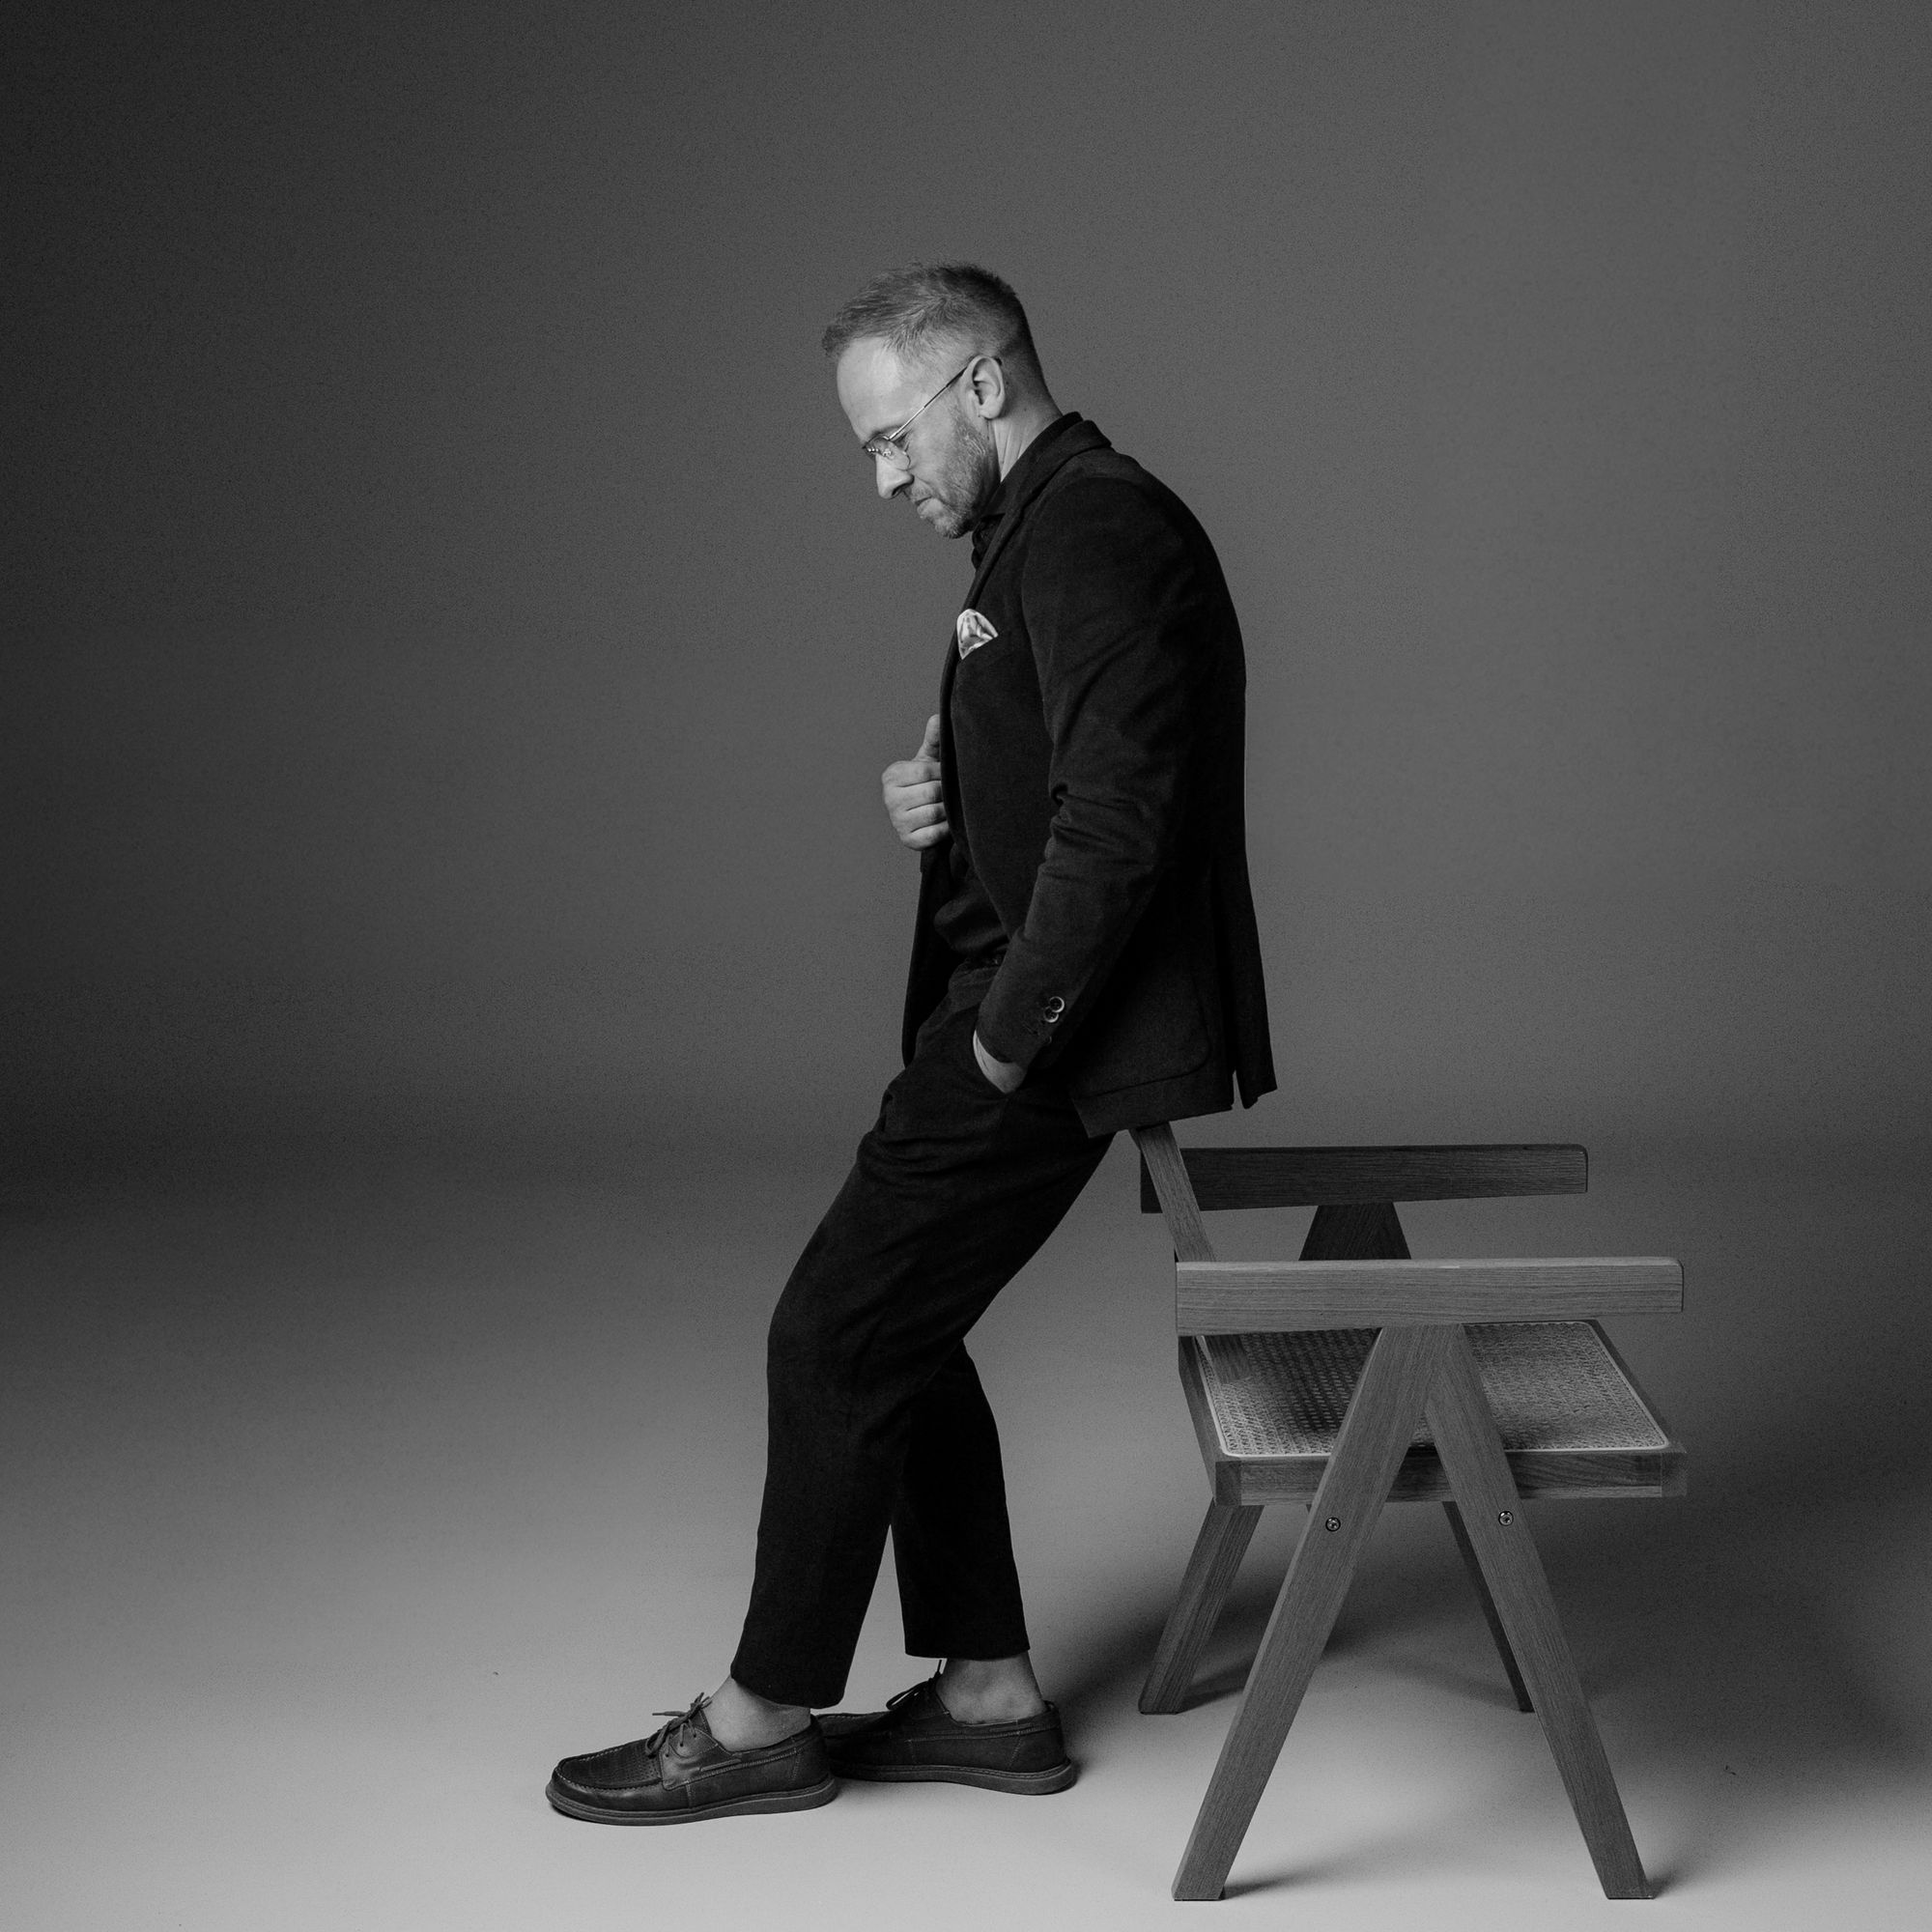
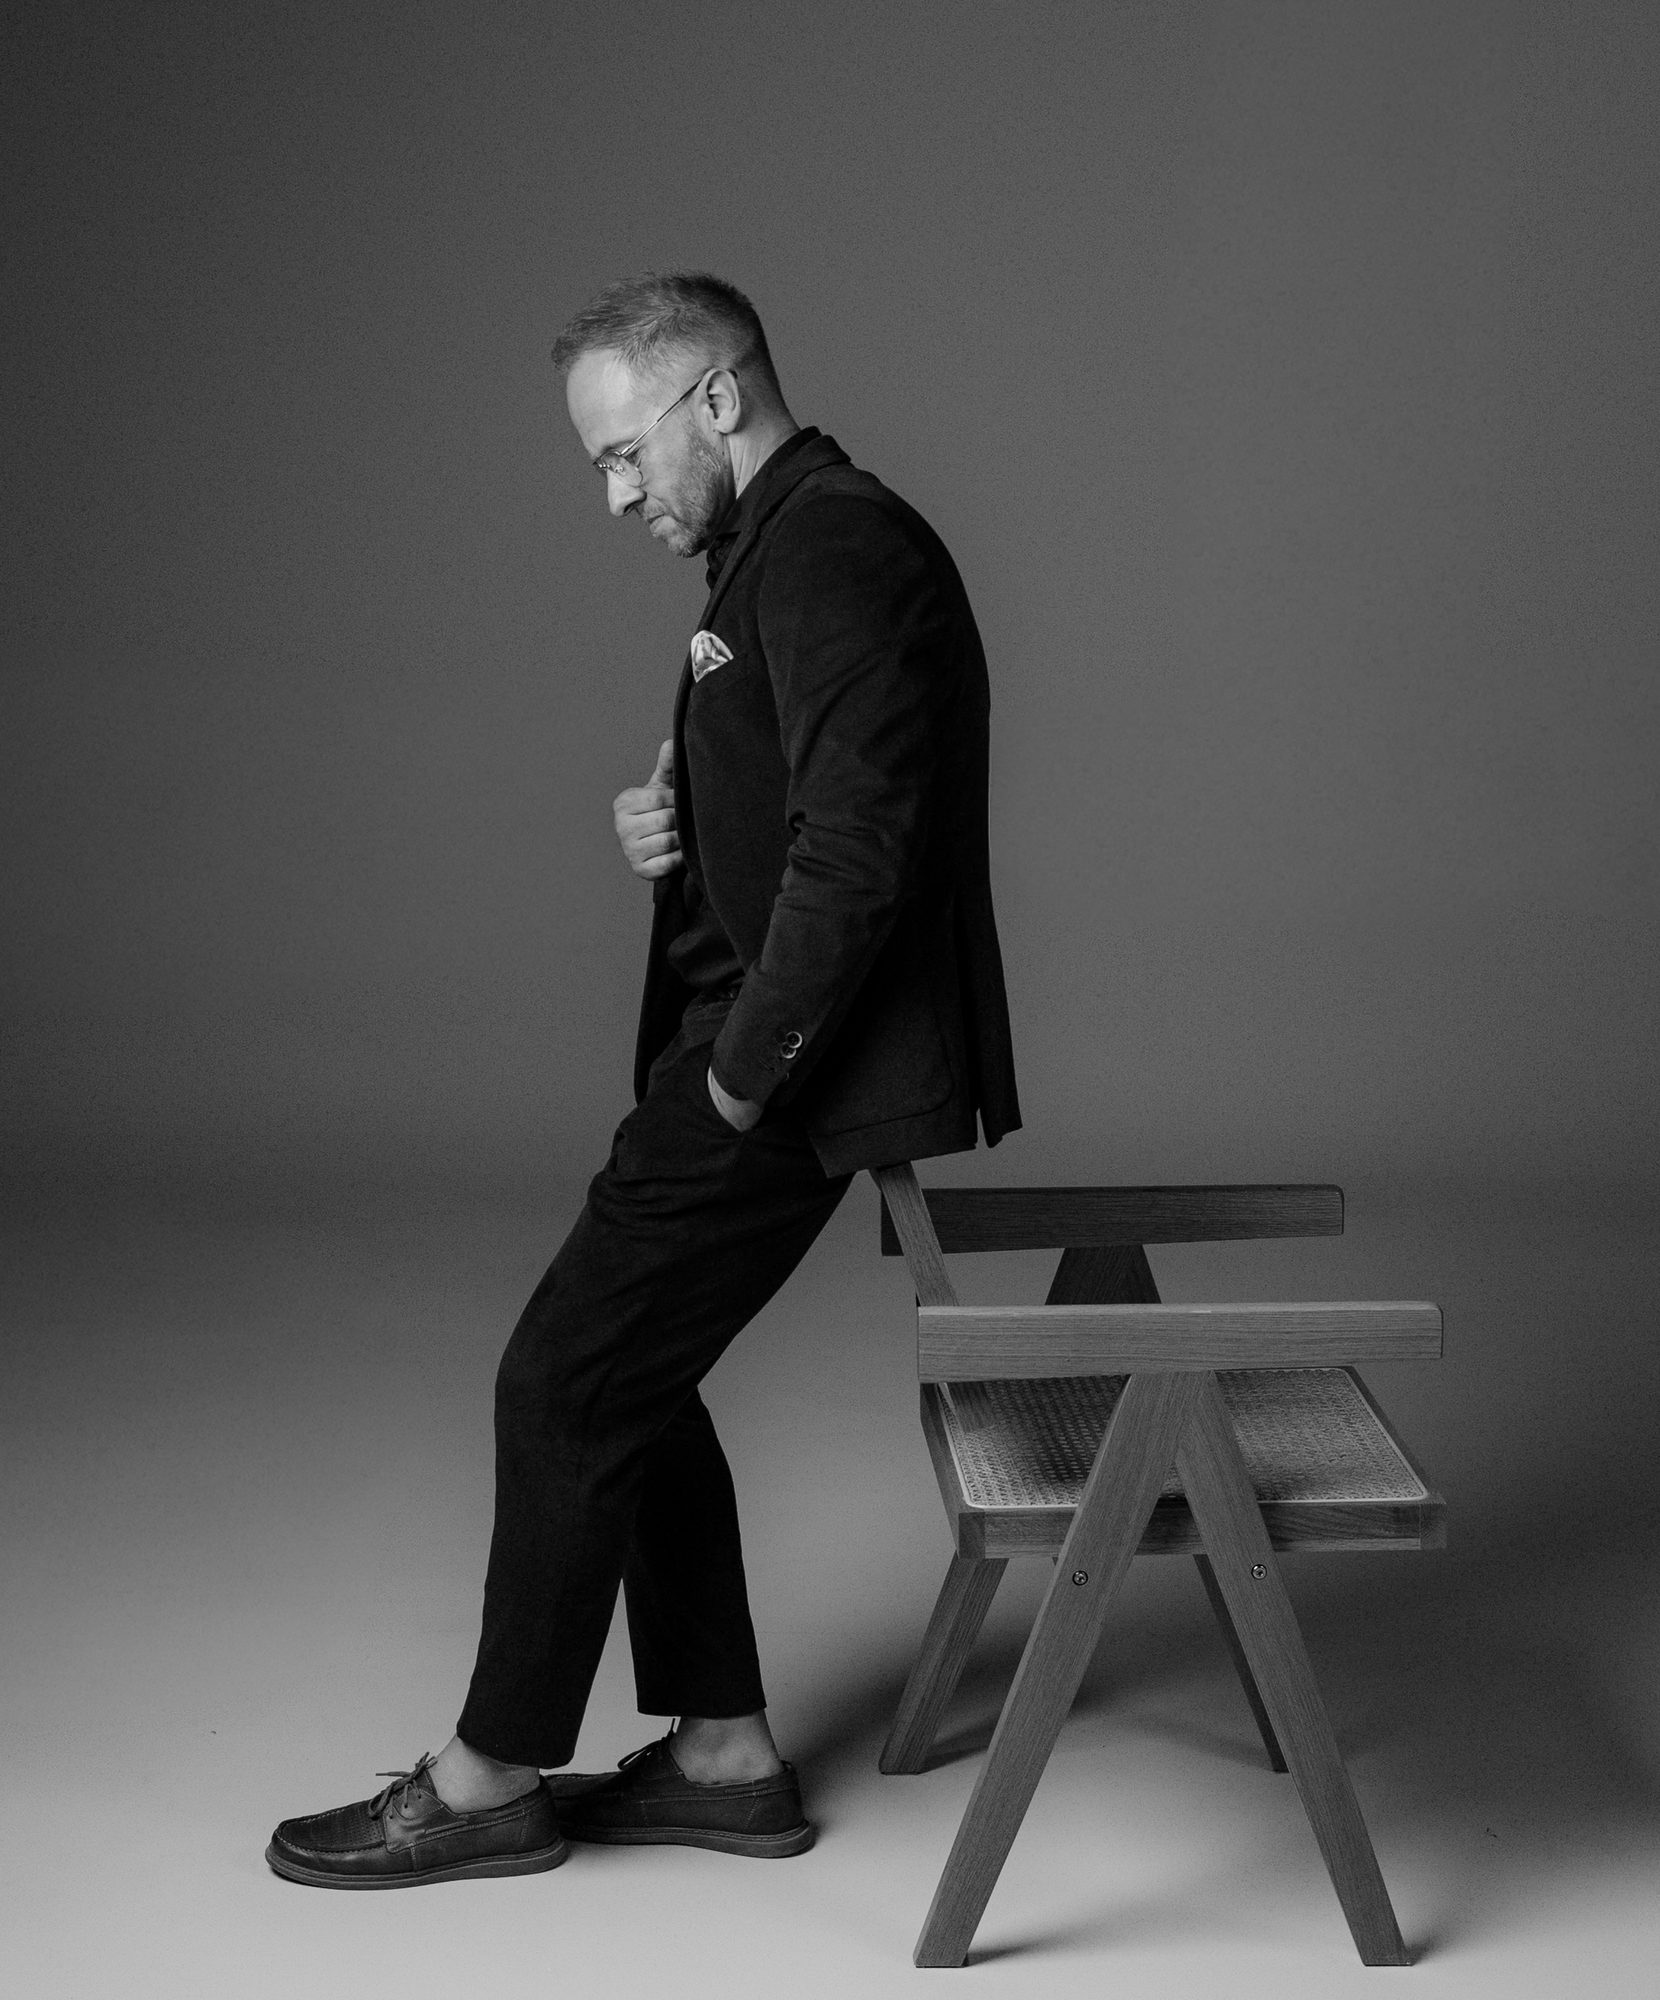
Add files via upload

Changed region(s): [[0.1536, 0.124, 0.8602, 0.992], [0.0, 0.868, 0.0614, 0.992], [0.7988, 0.589, 0.8295, 0.62]]

diff --git a/index.html b/index.html
@@ -66,12 +66,24 @@
   .hero{position:relative;min-height:92vh;display:flex;align-items:flex-end;overflow:hidden}
   .hero::before{
     content:"";position:absolute;inset:0;
-    background:url('hero.jpg') center 18%/cover no-repeat;
+    background-color:var(--schwarz);
+    background-image:url('hero.jpg');
+    background-repeat:no-repeat;
+    background-position:right -2vw top 12%;
+    background-size:auto 112%;
     filter:grayscale(1) contrast(1.05);
   }
   .hero::after{
     content:"";position:absolute;inset:0;
-    background:linear-gradient(180deg,rgba(11,11,11,.25) 0%,rgba(11,11,11,.45) 55%,rgba(11,11,11,.94) 100%);
+    background:
+      linear-gradient(90deg,rgba(11,11,11,.96) 6%,rgba(11,11,11,.55) 36%,rgba(11,11,11,0) 64%),
+      linear-gradient(180deg,rgba(11,11,11,0) 55%,rgba(11,11,11,.88) 100%);
+  }
+  @media (max-width:920px){
+    .hero::before{background-position:right -16vw top 10%;background-size:auto 105%}
+    .hero::after{background:
+      linear-gradient(90deg,rgba(11,11,11,.85) 0%,rgba(11,11,11,.35) 45%,rgba(11,11,11,.1) 80%),
+      linear-gradient(180deg,rgba(11,11,11,.1) 40%,rgba(11,11,11,.92) 100%)}
   }
   .hero .inhalt{position:relative;z-index:2;padding:0 0 9vh;width:100%}
   .hero h1{
@@ -225,7 +237,7 @@
       <h1 class="display">Sichtbarkeit<span class="zeile2">ist kein Zufall.</span></h1>
       <div class="sub">
         <span class="serif">Foto. Video. Content.</span>
-        <p>Für Unternehmen, die nicht übersehen werden wollen. Konzipiert, produziert und geliefert von Schuster Studio – Rhein-Neckar &amp; bundesweit.</p>
+        <p>Für Unternehmen, die gesehen werden wollen. Konzipiert, produziert und geliefert von Schuster Studio – Rhein-Neckar &amp; bundesweit.</p>
       </div>
       <div class="cta-row">
         <a class="btn" href="#kontakt">Unverbindlich anfragen</a>
@@ -256,17 +268,17 @@
     <div class="wrap">
       <div class="kopf">
         <span class="label">Warum professioneller Content</span>
-        <h2 class="display">Ihre Kunden googeln Sie. Die Frage ist nur, was sie finden.</h2>
-        <p>Bevor jemand anruft, ein Angebot anfordert oder sich bewirbt, hat er Ihre Website, Ihr LinkedIn-Profil und Ihre Bilder gesehen. Dieser erste Eindruck entsteht in Sekunden – und er entscheidet, ob es einen zweiten gibt.</p>
+        <h2 class="display">Ihre Kunden googeln Sie. Geben wir ihnen etwas zu sehen.</h2>
+        <p>Bevor jemand anruft, ein Angebot anfordert oder sich bewirbt, hat er Ihre Website, Ihr LinkedIn-Profil und Ihre Bilder gesehen. Dieser erste Eindruck entsteht in Sekunden – gestalten wir ihn so überzeugend wie Ihre Arbeit.</p>
       </div>
       <div class="argumente">
         <div class="arg">
           <h3>Vertrauen ist visuell</h3>
-          <p><strong>Menschen kaufen von Menschen.</strong> Echte, hochwertige Porträts Ihres Teams schaffen Nähe und Glaubwürdigkeit, bevor das erste Gespräch stattfindet. Stockfotos erkennt jeder sofort – und niemand vertraut ihnen.</p>
+          <p><strong>Menschen kaufen von Menschen.</strong> Hochwertige, authentische Porträts geben Ihrem Unternehmen ein Gesicht und schaffen Nähe und Glaubwürdigkeit – noch bevor das erste Gespräch stattfindet.</p>
         </div>
         <div class="arg">
           <h3>Marke entsteht durch Konsistenz</h3>
-          <p>Eine durchgängige Bildsprache über Website, Social Media, Presse und Print macht aus einem Unternehmen eine Marke. <strong>Wer überall anders aussieht, bleibt nirgends im Gedächtnis.</strong></p>
+          <p>Eine durchgängige Bildsprache über Website, Social Media, Presse und Print macht aus einem Unternehmen eine Marke. <strong>Wiedererkennbarkeit ist der direkte Weg ins Gedächtnis Ihrer Kunden.</strong></p>
         </div>
         <div class="arg">
           <h3>Ein Shooting, viele Kanäle</h3>
@@ -274,11 +286,11 @@
         </div>
         <div class="arg">
           <h3>Recruiting beginnt beim Bild</h3>
-          <p>Fachkräfte prüfen Arbeitgeber online, bevor sie sich bewerben. Authentische Einblicke in Team und Arbeitsumfeld sind <strong>das stärkste Argument, das keine Stellenanzeige ersetzen kann.</strong></p>
+          <p>Fachkräfte lernen Arbeitgeber online kennen, bevor sie sich bewerben. Authentische Einblicke in Team und Arbeitsumfeld sind <strong>Ihr stärkstes Argument im Wettbewerb um die besten Köpfe.</strong></p>
         </div>
         <div class="arg">
           <h3>Bewegtbild wird erwartet</h3>
-          <p>Video ist kein Nice-to-have mehr: Es transportiert in 60 Sekunden, wofür Text drei Absätze braucht – und wird auf allen Plattformen bevorzugt ausgespielt. <strong>Wer kein Bewegtbild hat, überlässt die Bühne anderen.</strong></p>
+          <p>Video transportiert in 60 Sekunden, wofür Text drei Absätze braucht – und wird auf allen Plattformen bevorzugt ausgespielt. <strong>Mit Bewegtbild gehört die Bühne Ihnen.</strong></p>
         </div>
       </div>
     </div>
@@ -323,7 +335,7 @@
           <div class="bild"><img src="video-kamera.jpg" alt="Contentproduktion hinter den Kulissen" loading="lazy"></div>
           <div class="text">
             <h3>Content</h3>
-            <p>Regelmäßiger, hochwertiger Content für Ihre Kanäle – ohne dass Sie sich darum kümmern müssen. Geplant in Paketen, geliefert einsatzbereit für Social Media und Web.</p>
+            <p>Regelmäßiger, hochwertiger Content für Ihre Kanäle – während Sie sich auf Ihr Kerngeschäft konzentrieren. Geplant in Paketen, geliefert einsatzbereit für Social Media und Web.</p>
             <ul>
               <li>Social-Media-Content-Pakete</li>
               <li>Recruiting-Content</li>
@@ -368,7 +380,7 @@
       <div class="schritte">
         <div class="schritt">
           <h3>Briefing &amp; Konzept</h3>
-          <p>Wir klären Ziel, Einsatzzweck und Umfang – telefonisch oder vor Ort. Sie erhalten ein klares Festpreisangebot inklusive Nutzungsrechten. Keine versteckten Kosten.</p>
+          <p>Wir klären Ziel, Einsatzzweck und Umfang – telefonisch oder vor Ort. Sie erhalten ein klares Festpreisangebot inklusive Nutzungsrechten – transparent kalkuliert vom ersten Tag an.</p>
         </div>
         <div class="schritt">
           <h3>Produktion</h3>
@@ -392,7 +404,7 @@
         <p>Fotograf und Content-Produzent aus Frankenthal. Ich habe Eröffnungen für <strong>Porsche</strong> dokumentiert, das Jubiläum der <strong>Mercedes-Benz Bank</strong> begleitet, Werbeaufnahmen für eine <strong>ProSieben-Gründershow</strong> produziert und Profis der <strong>Adler Mannheim</strong> vor der Kamera gehabt.</p>
         <p>Was alle Projekte verbindet: <strong>Verlässlichkeit, Tempo und ein Auge für den Moment</strong>, der eine Marke ausmacht. Ich plane selbstständig, arbeite mich schnell in Ihr Unternehmen ein und liefere, was vereinbart ist – pünktlich.</p>
         <!-- TIPP: Hier kannst du noch 1–2 persönliche Sätze ergänzen (Jahre Erfahrung, Werdegang, Haltung). -->
-        <span class="serif">„Gute Bilder sind kein Kostenpunkt. Sie sind ein Verkäufer, der nie schläft."</span>
+        <span class="serif">„Gute Bilder sind ein Verkäufer, der rund um die Uhr für Sie arbeitet."</span>
       </div>
     </div>
   </section>